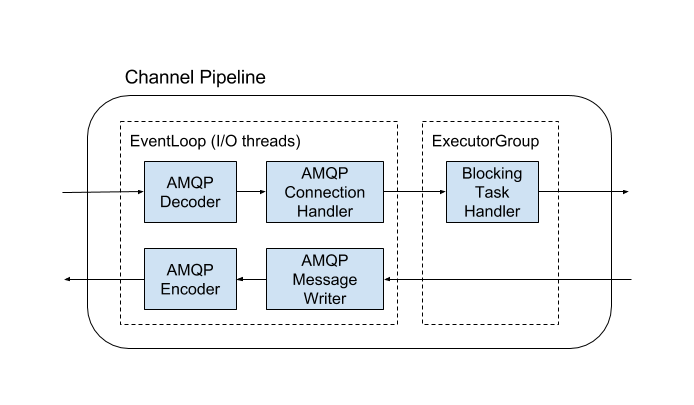
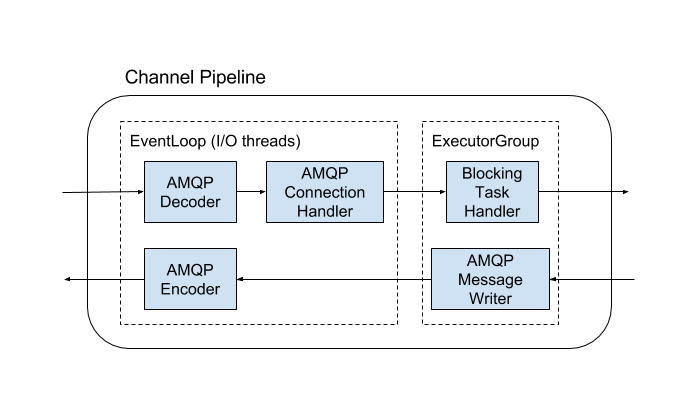
Fix the race condition issue in flow controlling
Unacknowledge message map is written in a thread unsafe manner.
Therefore it is required to handle it in a sequential manner
possibly using the same thread. Issues was due to message writer
and BlockingTaskHandler concurrently updating the unack message
map. Fixed the issue by using the same executor to process both
handlers.

Changed region(s): [[0.6052, 0.5926, 0.817, 0.7704], [0.3631, 0.5926, 0.5749, 0.7704]]

diff --git a/modules/broker-amqp/src/main/java/org/wso2/broker/amqp/codec/frames/BasicRecover.java b/modules/broker-amqp/src/main/java/org/wso2/broker/amqp/codec/frames/BasicRecover.java
@@ -68,19 +68,21 @@ public class BasicRecover extends MethodFrame {
                 ctx.writeAndFlush(new BasicRecoveryOk(getChannel()));
             });
         } else {
-            Collection<AckData> unackedMessages = channel.recover();
-            Channel nettyChannel = ctx.channel();
-            nettyChannel.write(new BasicRecoveryOk(getChannel()));
-            for (AckData ackData : unackedMessages) {
-                Message message = ackData.getMessage();
+            ctx.fireChannelRead((BlockingTask) () -> {
+                Collection<AckData> unackedMessages = channel.recover();
+                Channel nettyChannel = ctx.channel();
+                nettyChannel.write(new BasicRecoveryOk(getChannel()));
+                for (AckData ackData : unackedMessages) {
+                    Message message = ackData.getMessage();
 
-                message.setRedeliver();
-                nettyChannel.write(new AmqpDeliverMessage(message,
-                                                          ackData.getConsumerTag(),
-                                                          channel,
-                                                          ackData.getQueueName()));
-            }
-            nettyChannel.flush();
+                    message.setRedeliver();
+                    nettyChannel.write(new AmqpDeliverMessage(message,
+                                                              ackData.getConsumerTag(),
+                                                              channel,
+                                                              ackData.getQueueName()));
+                }
+                nettyChannel.flush();
+            });
         }
     }
 

diff --git a/modules/broker-amqp/src/main/java/org/wso2/broker/amqp/Server.java b/modules/broker-amqp/src/main/java/org/wso2/broker/amqp/Server.java
@@ -182,7 +182,7 @@ public class Server {
                          .addLast(new AmqpDecoder())
                          .addLast(new AmqpEncoder())
                          .addLast(new AmqpConnectionHandler(broker))
-                         .addLast(new AmqpMessageWriter())
+                         .addLast(ioExecutors, new AmqpMessageWriter())
                          .addLast(ioExecutors, new BlockingTaskHandler());
         }
     }
@@ -203,7 +203,7 @@ public class Server {
                          .addLast(new AmqpDecoder())
                          .addLast(new AmqpEncoder())
                          .addLast(new AmqpConnectionHandler(broker))
-                         .addLast(new AmqpMessageWriter())
+                         .addLast(ioExecutors, new AmqpMessageWriter())
                          .addLast(ioExecutors, new BlockingTaskHandler());
         }
     }
